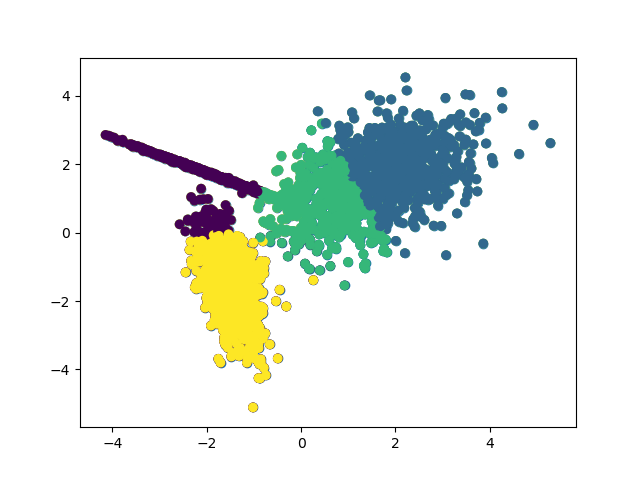
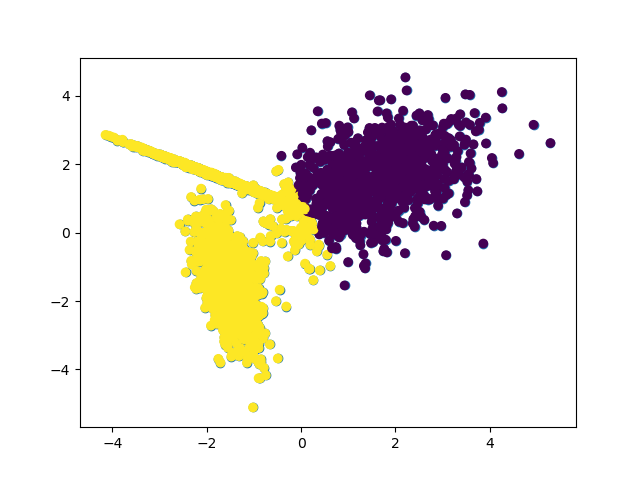
refactoring

diff --git a/run_gmm/run_gmm.py b/run_gmm/run_gmm.py
@@ -32,8 +32,27 @@ plt.savefig("scatter_kmean2.png")
 print("kmeans 2 clusters")
 print(metrics.silhouette_score(dataset,kmeans_predictions2))'''
 
-gaussian_predictions3 = GaussianMixture(n_components = 3).fit(dataset).predict(dataset)
+for i in range(4):
+    n = i+2
+    print(n)
+    kmeans_predictions = KMeans(n_clusters = n).fit_predict(dataset)# unsuvervised can combine predict at once after
+    plt.scatter(dataset[0],dataset[1], c= kmeans_predictions)
+    plt.savefig("scatter_kmean"+str(n)+".png")
+    print("kmeans " + str(n) + " clusters")
+    print(metrics.silhouette_score(dataset,kmeans_predictions))
+
+'''gaussian_predictions3 = GaussianMixture(n_components = 3).fit(dataset).predict(dataset)
 plt.scatter(dataset[0],dataset[1], c = gaussian_predictions3)
 plt.savefig("scatter_gaussian3.png")
 print("gaussian 3 clusters")
 print(metrics.silhouette_score(dataset,gaussian_predictions3))
+'''
+
+for i in range(5):
+    n = i+2
+    print(n)
+    gaussian_predictions = GaussianMixture(n_components = n).fit(dataset).predict(dataset)#gausian do not fit_predict
+    plt.scatter(dataset[0],dataset[1], c = gaussian_predictions)
+    plt.savefig("scatter_gaussian" + str(n) + ".png")
+    print("gaussian " +str(n) + " clusters")
+    print(metrics.silhouette_score(dataset,gaussian_predictions))
